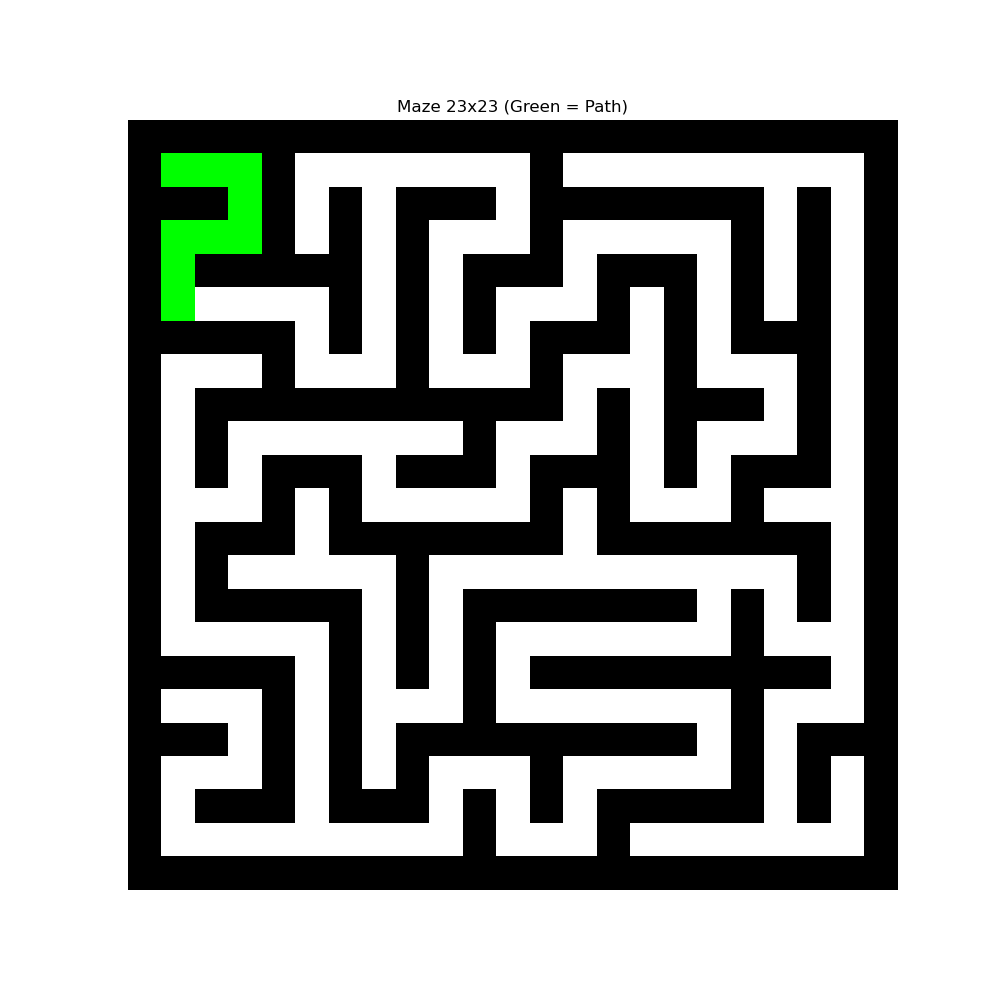
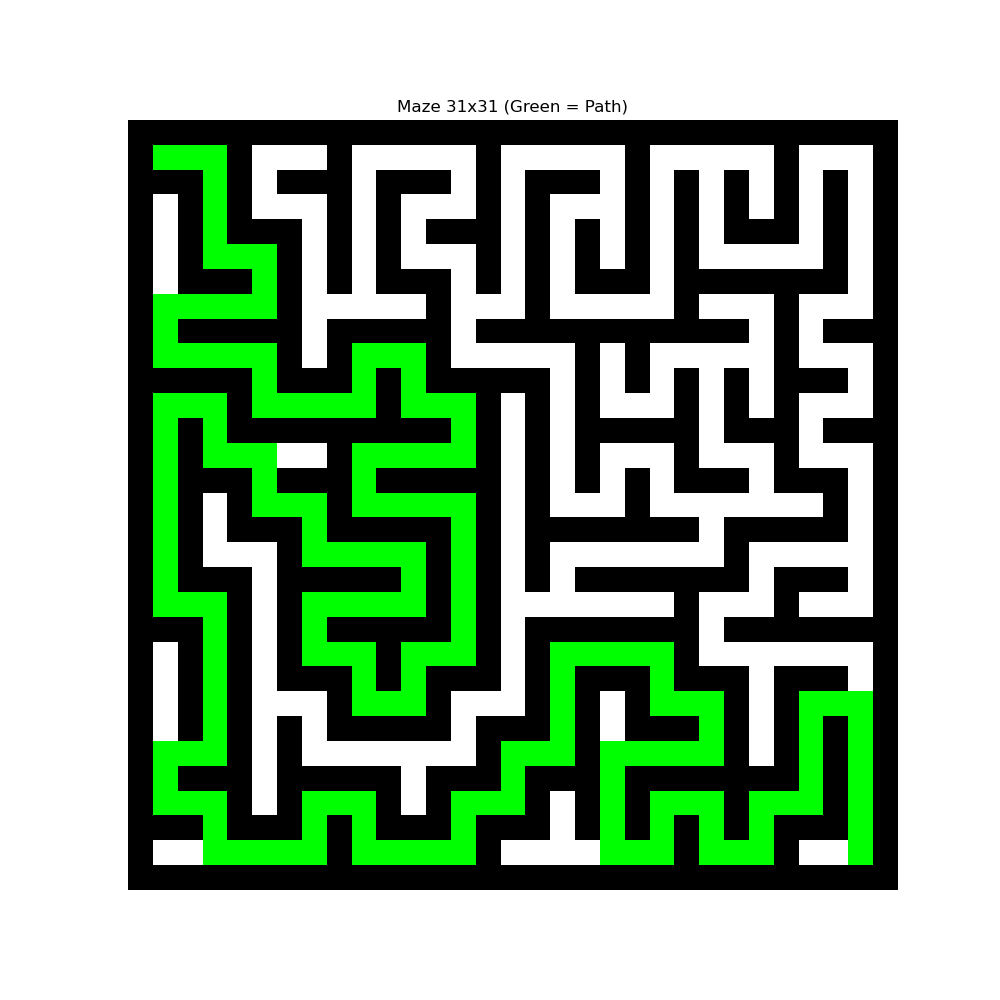
recursive backtracker: progress

diff --git a/check_point_3/a_maze_ing.py b/check_point_3/a_maze_ing.py
@@ -183,9 +183,9 @@ class A_Maze_Ing:
             self.recursive_backtracker(maze, entry_x, entry_y, actual_height, actual_width, exit_x, exit_y)
             
             if maze[entry_point[1], entry_point[0]] == 0:
-                maze[entry_point[1], entry_point[0]] = 3
+                maze[entry_point[1], entry_point[0]] = 42
             if maze[exit_point[1], exit_point[0]] == 0:
-                maze[exit_point[1], exit_point[0]] = 4
+                maze[exit_point[1], exit_point[0]] = 42
             
             return maze
         
@@ -257,30 +257,9 @@ class A_Maze_Ing:
                 
                 plt.savefig("maaaze.png")
                 print(f"Maze visualization saved to maaaze.png")
-    @staticmethod
-    def maze_printer(maze):
-        
-        RESET = "\033[0m"
-        WALL  = "\033[40m  "           
-        PATH  = "\033[48;5;254m  "    
-        SYM   = "\033[48;5;250m░░"    
-        START = "\033[48;5;129m  "    
-        END   = "\033[48;5;196m  "
-        
-        mapping = {
-            0: PATH,
-            1: WALL,
-            3: START,
-            4: END,
-            42: SYM
-        }
-        for row in maze:
-            for cell in row:
-                print(mapping.get(cell, PATH), end="")
-            print(RESET)
+                
     def generate_maze(self):
-        maze = self.maze.maze_bringer()
-        A_Maze_Ing.maze_printer(maze)
+        return self.maze.maze_bringer()
         
     def print_arguments(self):
         print(f"Height: {self.height}")

diff --git a/amz_parsing.py b/amz_parsing.py
@@ -90,6 +90,10 @@ def Combining_rules() -> dict:
     try:
         from sys import argv
         config_file = argv[1]
+        if len(argv) > 2:
+            raise ValueError("Too many arguments provided. Only the configuration file path is required.")
+        elif len(argv) < 2:
+            raise ValueError("No configuration file provided. Please provide the path to the configuration file.")
         with open(config_file, "r") as f:
             config_lines = [line.strip() for line in f]
         tokens = validate_lines(config_lines)
